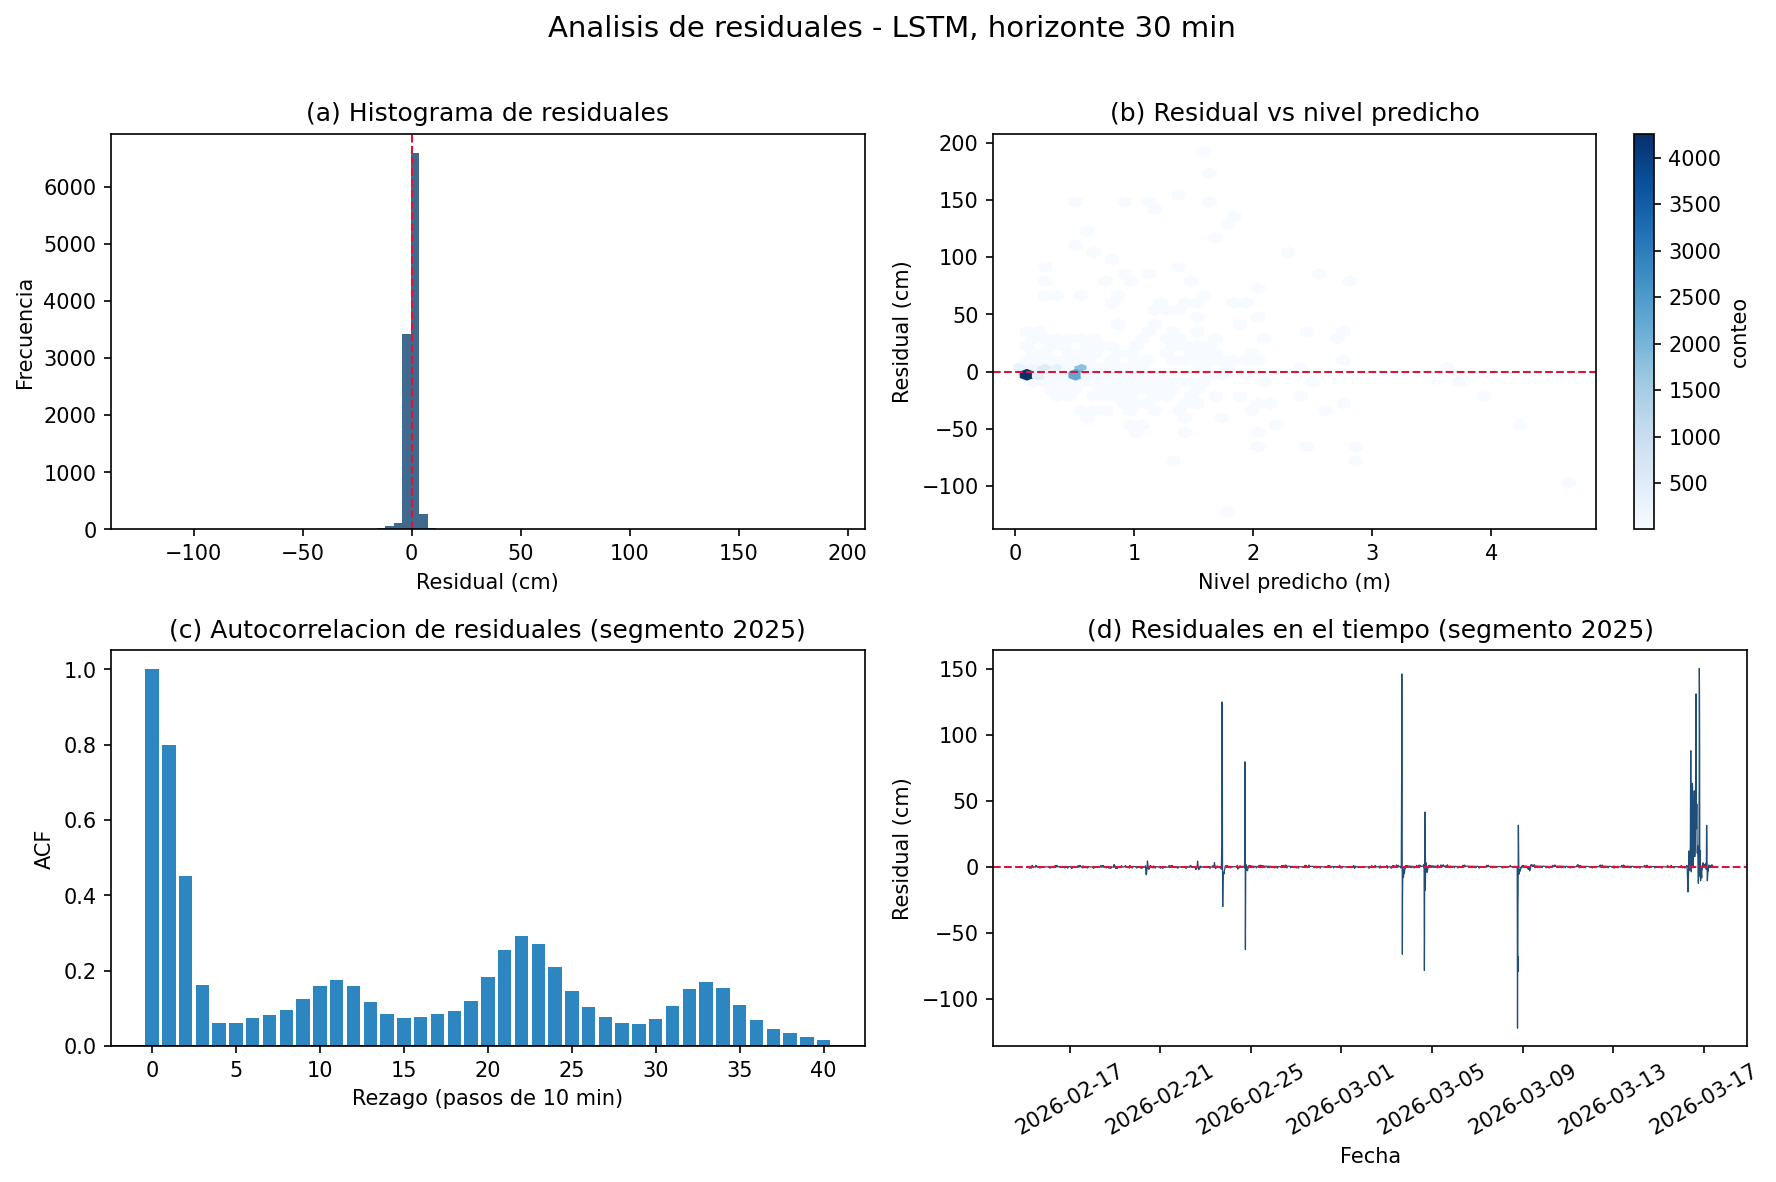
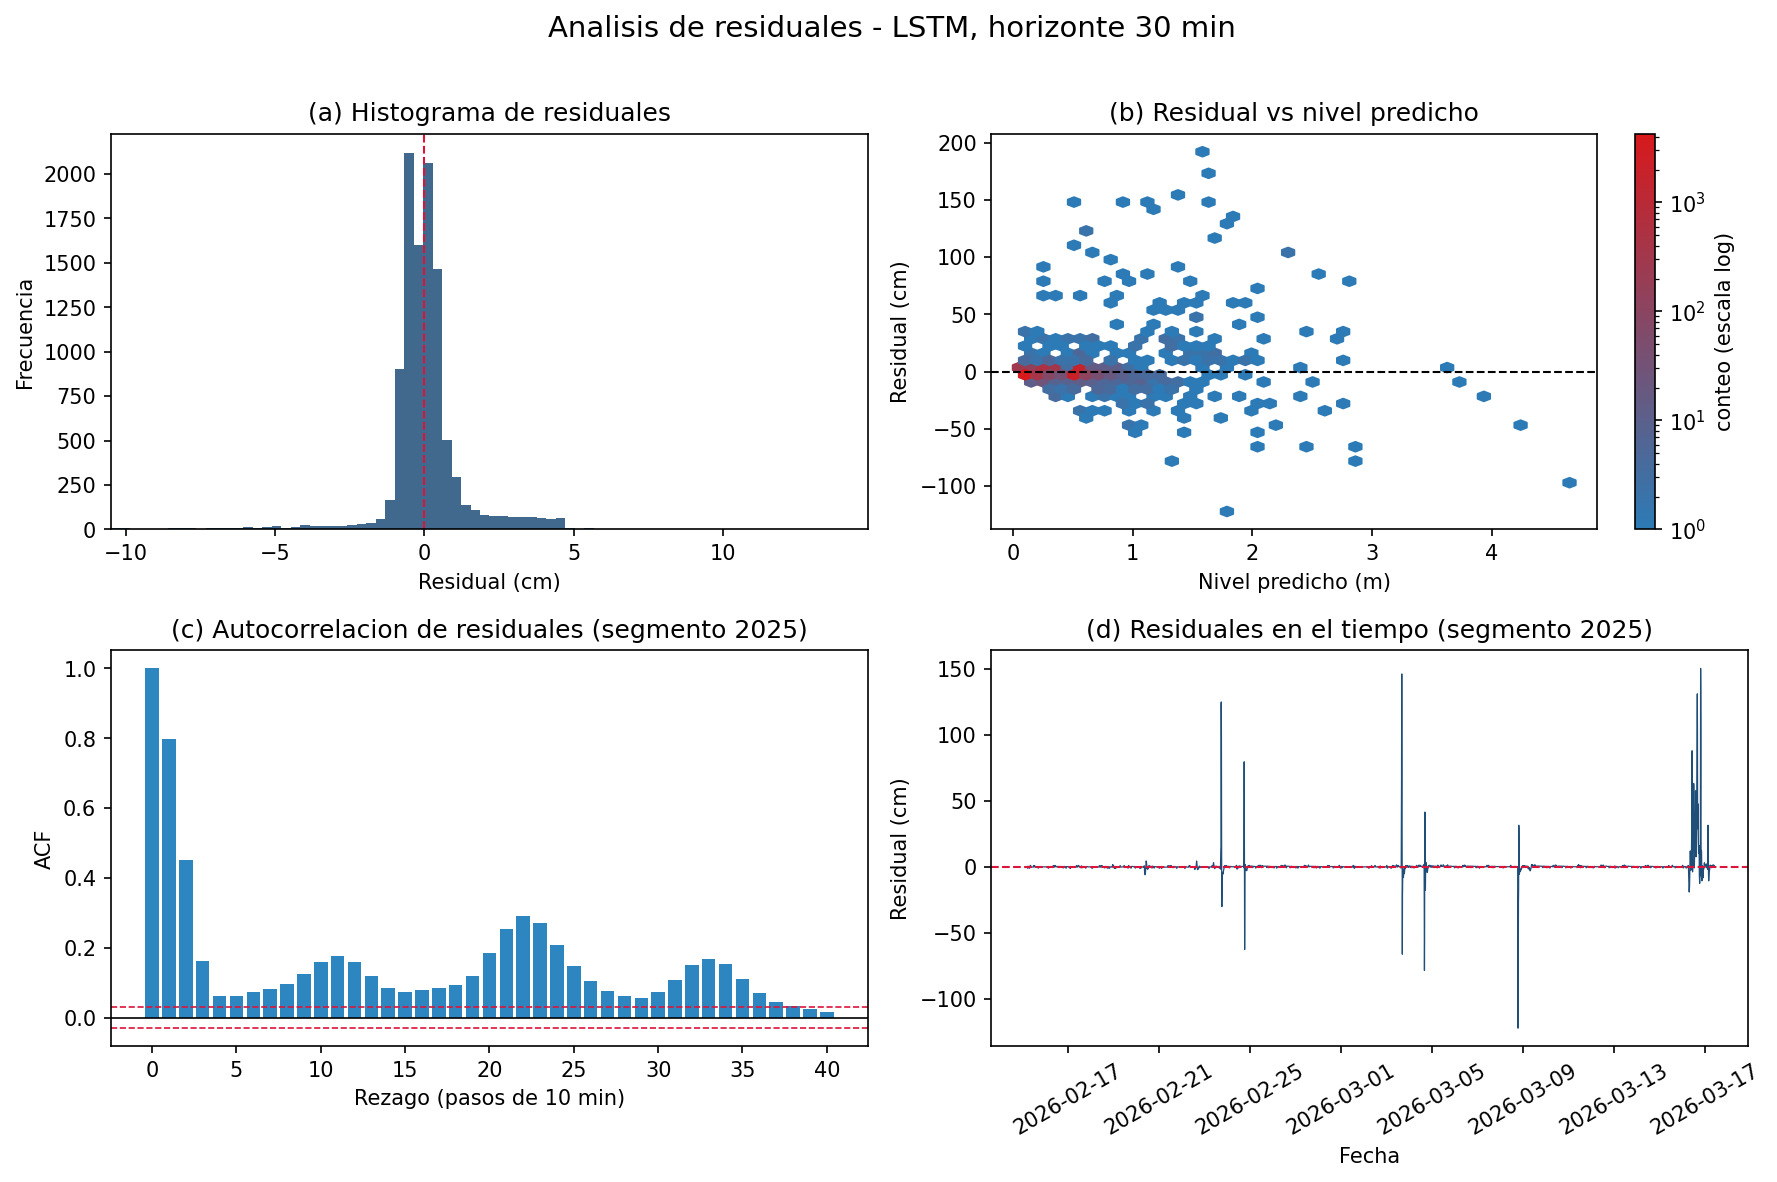
Correcciones en el Reporte y Figuras

diff --git a/src/03_analisis_residuales.py b/src/03_analisis_residuales.py
@@ -21,6 +21,7 @@ from __future__ import annotations
 from pathlib import Path
 
 import matplotlib.pyplot as plt
+from matplotlib.colors import LinearSegmentedColormap
 import numpy as np
 import pandas as pd
 
@@ -49,21 +50,25 @@ def diagnostico_lstm(df_t30: pd.DataFrame) -> None:
 
     fig, ax = plt.subplots(2, 2, figsize=(12, 8))
 
-    # (a) Histograma
-    ax[0, 0].hist(lstm["residual_cm"], bins=80, color="#1f4e79", alpha=0.85)
+    # (a) Histograma (eje x acotado al rango con datos, recortando colas extremas)
+    lo, hi = lstm["residual_cm"].quantile([0.01, 0.99])
+    ax[0, 0].hist(lstm["residual_cm"], bins=80, range=(lo, hi),
+                  color="#1f4e79", alpha=0.85)
+    ax[0, 0].set_xlim(lo, hi)
     ax[0, 0].axvline(0, color="crimson", linestyle="--", linewidth=1)
     ax[0, 0].set_title("(a) Histograma de residuales")
     ax[0, 0].set_xlabel("Residual (cm)")
     ax[0, 0].set_ylabel("Frecuencia")
 
-    # (b) Residual vs nivel predicho
+    # (b) Residual vs nivel predicho (colormap de dos colores + escala log de conteo)
+    cmap_dens = LinearSegmentedColormap.from_list("dens", ["#2c7bb6", "#d7191c"])
     hb = ax[0, 1].hexbin(lstm["pred"], lstm["residual_cm"], gridsize=45,
-                         cmap="Blues", mincnt=1)
-    ax[0, 1].axhline(0, color="crimson", linestyle="--", linewidth=1)
+                         cmap=cmap_dens, bins="log", mincnt=1)
+    ax[0, 1].axhline(0, color="black", linestyle="--", linewidth=1)
     ax[0, 1].set_title("(b) Residual vs nivel predicho")
     ax[0, 1].set_xlabel("Nivel predicho (m)")
     ax[0, 1].set_ylabel("Residual (cm)")
-    fig.colorbar(hb, ax=ax[0, 1], label="conteo")
+    fig.colorbar(hb, ax=ax[0, 1], label="conteo (escala log)")
 
     # (c) Autocorrelacion de residuales (segmento 2025 ordenado en el tiempo)
     s2025 = (lstm[lstm["segmento"] == 2025]
@@ -71,6 +76,10 @@ def diagnostico_lstm(df_t30: pd.DataFrame) -> None:
     valores_acf = acf(s2025["residual_cm"].to_numpy(), nlags=40)
     ax[1, 0].bar(range(len(valores_acf)), valores_acf, color="#2e86c1", width=0.8)
     ax[1, 0].axhline(0, color="black", linewidth=0.8)
+    # Banda de significancia ~95% para ruido blanco (+-1.96/sqrt(n))
+    ci = 1.96 / np.sqrt(len(s2025))
+    ax[1, 0].axhline(ci, color="crimson", linestyle="--", linewidth=0.8)
+    ax[1, 0].axhline(-ci, color="crimson", linestyle="--", linewidth=0.8)
     ax[1, 0].set_title("(c) Autocorrelacion de residuales (segmento 2025)")
     ax[1, 0].set_xlabel("Rezago (pasos de 10 min)")
     ax[1, 0].set_ylabel("ACF")

diff --git a/README.md b/README.md
@@ -4,6 +4,15 @@
 **Trabajo Práctico Final — Series Temporales · Maestría en Inteligencia Artificial**
 **Autor:** Federico D. Morán Fretes
 
+> ℹ️ **Origen de este trabajo.** Este Trabajo Práctico Final **toma como base un artículo científico —de
+> autoría propia— que actualmente se encuentra en período de revisión en la conferencia IBERAMIA**
+> (*Event-Centered Short-Term Forecasting of Urban Stream Levels: Comparing Statistical, Machine Learning,
+> and Deep Learning Models in the Mburicao Stream*). El repositorio reutiliza ese proyecto de
+> investigación como punto de partida; por ese motivo, los notebooks de la carpeta [`notebooks/`](notebooks/)
+> conservan parte del **desorden propio del proyecto original** (rutas de distintos entornos, nombres de
+> experimentos, iteraciones) y se incluyen únicamente como registro de trazabilidad. El análisis
+> reproducible del TPF vive en [`src/`](src/).
+
 > **Resumen.** El pronóstico a corto plazo del nivel de agua en arroyos urbanos es relevante para
 > la alerta temprana, porque una lluvia intensa puede producir una respuesta hidrológica rápida en
 > pocos minutos. Sin embargo, las métricas promedio pueden ocultar si un modelo es útil durante los
@@ -81,7 +90,18 @@ sola serie. El hueco entre 2022 y 2025 no contiene observaciones y unir ambos pe
 continuidad artificial de varios años. Por eso toda la construcción de ventanas, la ingeniería de
 features y la evaluación se hacen **dentro de cada segmento**.
 
-![Serie de nivel y precipitación por segmento](results/figures/eda_series_segmentos.png)
+<p align="center">
+  <img src="results/figures/paper_fig_01a_segment_2021_series_zoom_vector.png" width="88%"><br>
+  <em><strong>(a)</strong> Período 2021–2022.</em>
+</p>
+<p align="center">
+  <img src="results/figures/paper_fig_01b_segment_2025_series_zoom_vector.png" width="88%"><br>
+  <em><strong>(b)</strong> Período 2025–2026.</em>
+</p>
+
+*Figura 1. Registros de nivel de agua y precipitación de las dos campañas. En cada subfigura, el panel
+superior muestra el registro completo de nivel con un recuadro que amplía el evento principal, y el panel
+inferior la precipitación acumulada de 10 minutos.*
 
 ### 2.1 Dinámica de lluvia–respuesta
 
@@ -263,6 +283,18 @@ calma**.
 
 ![Diagnóstico de residuales del LSTM](results/figures/residuales_lstm_t30.png)
 
+**Cómo leer el panel (c) — autocorrelación de residuales.** La función de autocorrelación (ACF) mide
+cuánto se parece el residual de un instante a los residuales de instantes anteriores, para rezagos
+crecientes (cada rezago = 1 paso de 10 min). Si los errores del modelo fueran *ruido blanco* ideal —sin
+estructura temporal aprovechable— todas las barras caerían dentro de la banda de significancia del 95 %
+(líneas rojas punteadas, $\pm 1.96/\sqrt{n}$). En cambio se observa una **autocorrelación alta en los
+primeros rezagos** (≈0.8 en el rezago 1, es decir 10 min), lo que indica que **errores consecutivos son
+parecidos**: cuando el modelo se equivoca, tiende a seguir equivocándose en la misma dirección durante
+varios pasos. El repunte alrededor de los rezagos 20–35 (≈3.5–6 h) refleja la duración típica de los
+episodios de crecida. En la práctica, esto significa que **el LSTM no captura toda la dinámica
+temporal**: queda estructura sin modelar en los residuales, concentrada justamente en los eventos, lo
+que refuerza el enfoque centrado en eventos de este trabajo.
+
 La distribución de residuales por modelo confirma los sesgos vistos en las tablas: LSTM y persistencia
 están centrados en cero, mientras que ARIMA, SARIMAX y Ridge-ARX tienden a subestimar (sesgo positivo)
 y N-BEATS a sobreestimar (sesgo negativo) fuera de los eventos.
@@ -275,7 +307,7 @@ y N-BEATS a sobreestimar (sesgo negativo) fuera de los eventos.
 
 | Visualización | Archivo | Sección |
 |---|---|---|
-| Serie temporal original (nivel + lluvia) | `results/figures/eda_series_segmentos.png` | 2 |
+| Serie temporal original (nivel + lluvia) | `results/figures/paper_fig_01a/01b_segment_*_series_zoom_vector.png` | 2 |
 | Análisis lluvia–respuesta | `results/figures/paper_fig_03a/03b_*.png` | 2.1 |
 | Comparación de modelos (RMSE / NSE) | `results/figures/24_metricas_globales_rmse_nse.png` | 5.1 |
 | Degradación por horizonte | `results/figures/24_rmse_por_horizonte_global.png` | 5.2 |
@@ -363,8 +395,9 @@ los valores reportados en la Sección 5.
 ## 10. Origen del trabajo y créditos
 
 Este Trabajo Práctico Final se basa en investigación propia del autor: el estudio del arroyo Mburicaó
-desarrollado en el marco de su tesis de maestría y presentado como artículo científico en el congreso
-**IBERAMIA** (*Event-Centered Short-Term Forecasting of Urban Stream Levels*). El presente repositorio
+desarrollado en el marco de su tesis de maestría y **sometido, actualmente en período de revisión, como
+artículo científico a la conferencia IBERAMIA** (*Event-Centered Short-Term Forecasting of Urban Stream
+Levels*). El presente repositorio
 reorganiza y documenta ese trabajo en español para la cátedra de Series Temporales, reutilizando los
 modelos ya entrenados, sus predicciones y las figuras del artículo. Los datos de monitoreo del arroyo
 Mburicaó provienen del esfuerzo de monitoreo local asociado a dicho proyecto.

diff --git a/presentacion/presentacion.md b/presentacion/presentacion.md
@@ -46,7 +46,9 @@ Maestría en Inteligencia Artificial
 | 2021–2022 | jun-2021 → abr-2022 | 42 220 | 3.746 | 741.6 |
 | 2025–2026 | ago-2025 → mar-2026 | 29 055 | 3.300 | 325.1 |
 
-![width:820px](../results/figures/eda_series_segmentos.png)
+![width:455px](../results/figures/paper_fig_01a_segment_2021_series_zoom_vector.png) ![width:455px](../results/figures/paper_fig_01b_segment_2025_series_zoom_vector.png)
+
+<span style="font-size:16px">Izq.: período 2021–2022 · Der.: período 2025–2026 (nivel arriba, lluvia abajo, recuadro = evento principal).</span>
 
 ---
 